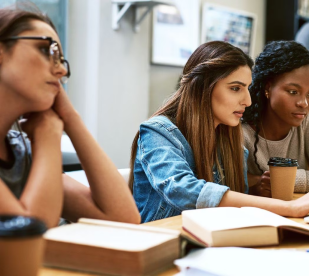
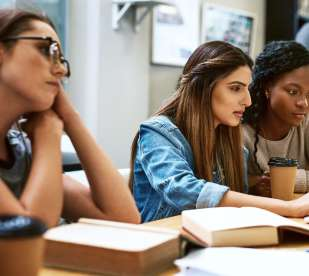
imagenes optimizadas

diff --git a/src/components/hero.jsx b/src/components/hero.jsx
@@ -11,7 +11,7 @@ const Header = () => (
 
         <a href='https://www.fvet.edu.uy'>
           <div className="flex items-center justify-end">
-            <img className="w-[180px] h-[180px] md:w-[200px] md:h-[200px] object-contain" src={logo120Fvet} alt="logo-fvet"/>
+            <img className="w-[115px] h-[115px] md:w-[150px] md:h-[150px] object-contain" src={logo120Fvet} alt="logo-fvet"/>
           </div>
         </a>
 
@@ -35,7 +35,7 @@ const Header = () => (
 
           <a href='https://www.fvet.edu.uy'>
             <div className="flex items-center justify-end">
-              <img className="w-[180px] h-[180px] object-contain" src={logo120Fvet} alt="logo-fvet"/>
+              <img className="w-[140px] h-[140px] object-contain" src={logo120Fvet} alt="logo-fvet"/>
             </div>
           </a>
         </div>
@@ -84,7 +84,7 @@ const Hero = () => {
             <div className='flex flex-col'>
               <h1 className={`font-dmsans font-semibold ss:text-[64px] text-[52px] text-black ss:leading-[100px] leading-[75px] w-full mt-4`}>Programa Una Salud</h1>
 
-              <p className={`font-dmsans text-[18px] font-medium text-black/70 my-4 max-w-[600px]`}>
+              <p className={`font-dmsans text-[22px] font-medium text-black/70 my-4 max-w-[600px]`}>
                 La Facultad de Veterinaria renueva su compromiso con la Sociedad con un enfoque transdisciplinario, multisectorial y colaborativo en Una Salud, Un Mundo, Un Bienestar.
               </p>
 
